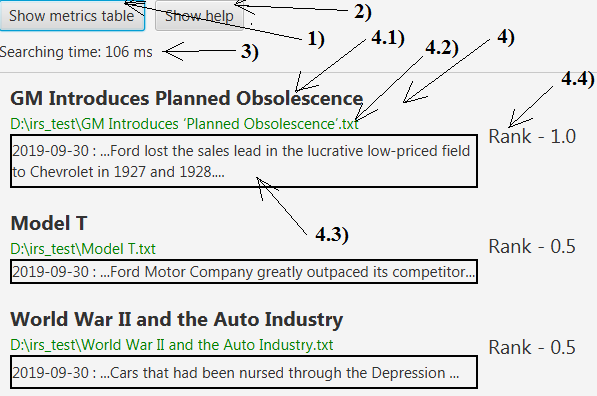
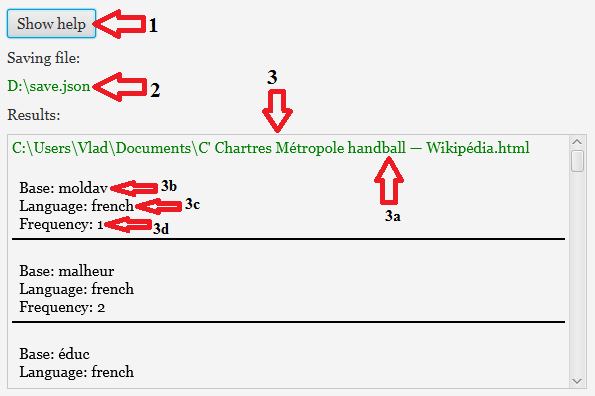
Appended some styles; redraw help images; fixed parser and stemming s.

diff --git a/src/main/resources/style/main.css b/src/main/resources/style/main.css
@@ -17,11 +17,21 @@
     -fx-spacing: 15px;
 }
 
+#result {
+    -fx-border-color: transparent transparent black transparent;
+    -fx-border-width: 2px;
+
+    -fx-padding: 5px;
+}
+
 #results {
     -fx-spacing: 30px;
 }
 
 #results-scroll {
+    -fx-fit-to-height: true;
+    -fx-fit-to-width: true;
+
     -fx-padding: 5px;
 }
 

diff --git a/src/main/java/com/bsuir/stemsys/controller/ResultsController.java b/src/main/java/com/bsuir/stemsys/controller/ResultsController.java
@@ -36,11 +36,12 @@ public class ResultsController {
             VBox documentResultsVBox = new VBox();
             documentResultsVBox.setId("document-results");
             for (StemResult stemResult : entry.getValue()) {
-                Text baseText = new Text(stemResult.getBase());
-                Text languageText = new Text(stemResult.getLanguage().name());
-                Text frequencyText = new Text(String.valueOf(stemResult.getFrequency()));
+                Text baseText = new Text("Base: " + stemResult.getBase());
+                Text languageText = new Text("Language: " + stemResult.getLanguage().name().toLowerCase());
+                Text frequencyText = new Text("Frequency: " + stemResult.getFrequency());
 
                 VBox resultVBox = new VBox(baseText, languageText, frequencyText);
+                resultVBox.setId("result");
                 documentResultsVBox.getChildren().add(resultVBox);
             }
 

diff --git a/src/main/java/com/bsuir/stemsys/data/parser/WordsParser.java b/src/main/java/com/bsuir/stemsys/data/parser/WordsParser.java
@@ -22,8 +22,7 @@ public class WordsParser implements DocumentParser {
                                 text.getBytes(StandardCharsets.UTF_8))))) {
             parsed = new ArrayList<>();
             String line;
-            Pattern pattern = Pattern.compile("[^\\w]+",
-                    Pattern.CASE_INSENSITIVE + Pattern.UNICODE_CHARACTER_CLASS);
+            Pattern pattern = Pattern.compile("([^\\w]|\\d)+", Pattern.UNICODE_CHARACTER_CLASS);
             while ((line = reader.readLine()) != null) {
                 String[] words = pattern.split(line);
                 for (String word : words) {

diff --git a/src/main/java/com/bsuir/stemsys/service/StemmingServiceImpl.java b/src/main/java/com/bsuir/stemsys/service/StemmingServiceImpl.java
@@ -23,7 +23,7 @@ public class StemmingServiceImpl implements StemmingService {
 
         Map<String, Integer> wordBasisWithFrequency = new HashMap<>();
         for (String word : textWords) {
-            String basis = stemmer.stem(word);
+            String basis = stemmer.stem(word).toLowerCase();
             if (wordBasisWithFrequency.containsKey(basis)) {
                 wordBasisWithFrequency.put(basis, wordBasisWithFrequency.get(basis) + 1);
             } else {
